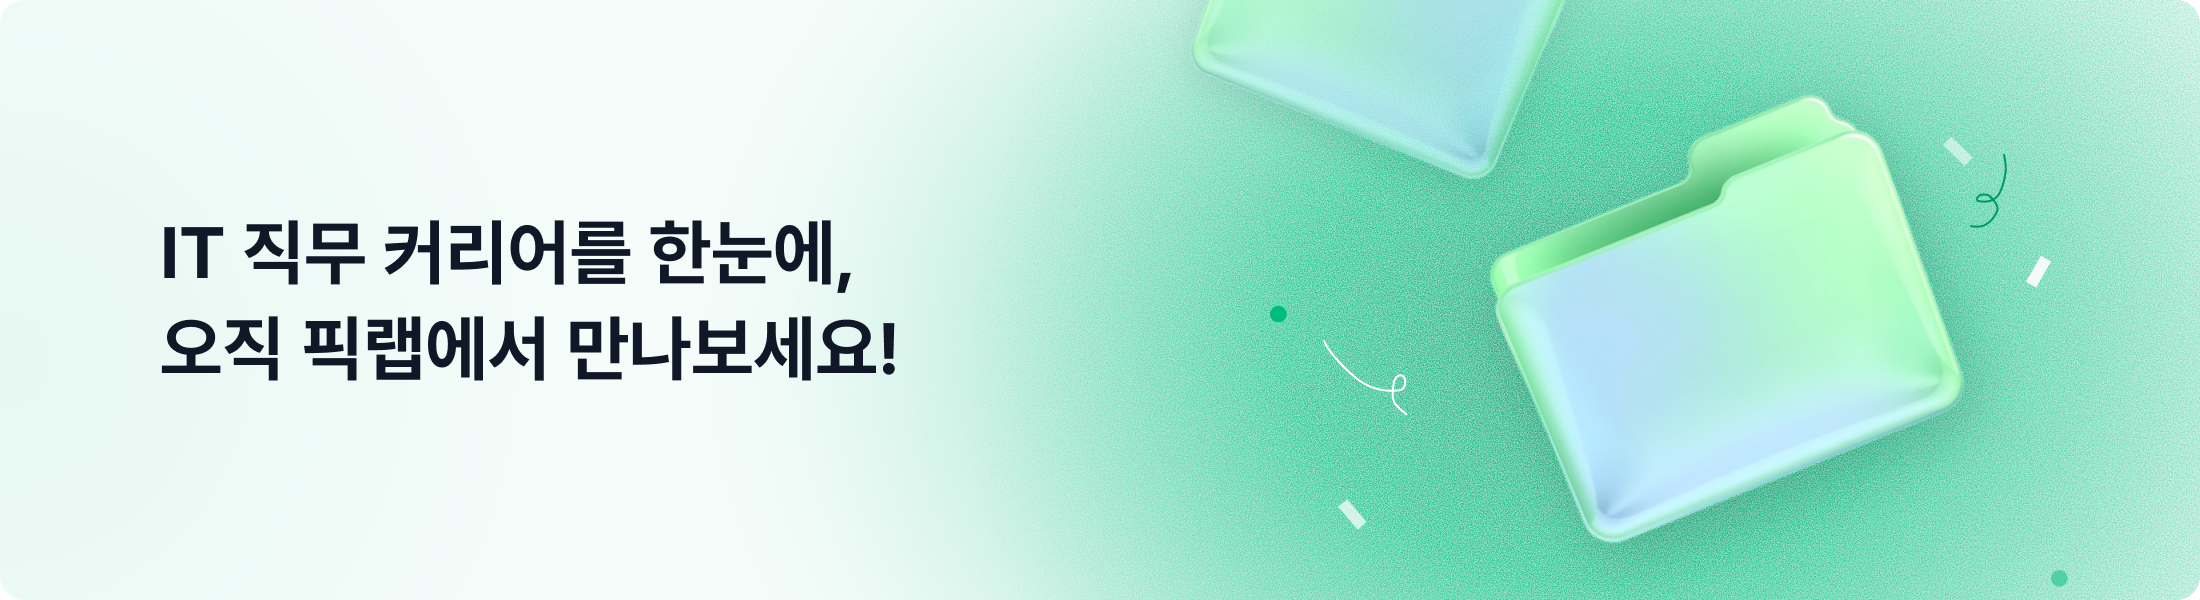
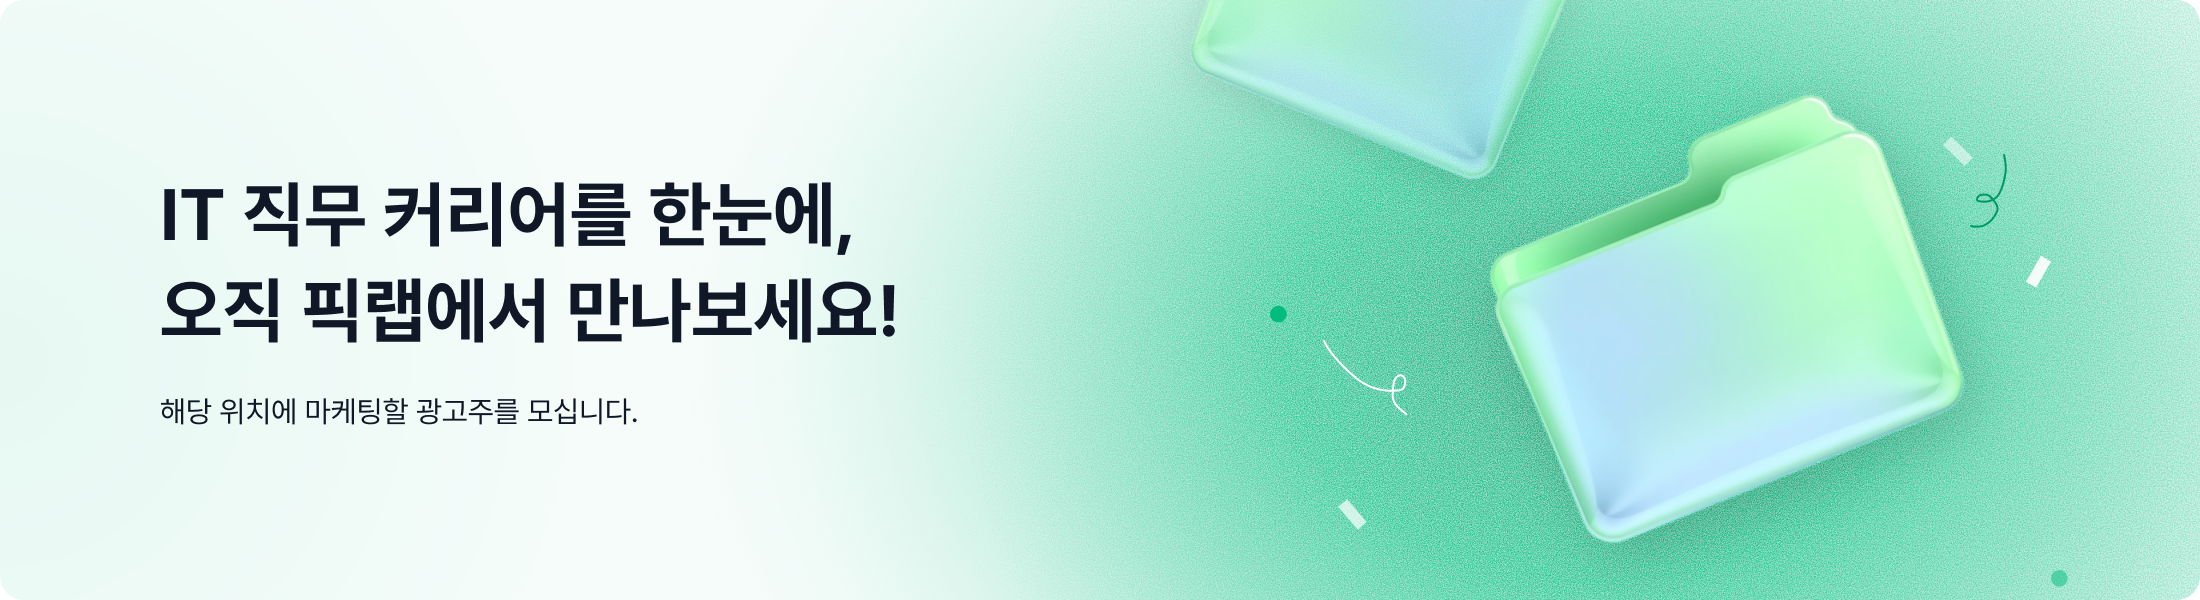
fix: 픽랩 2차 QA 테스트 작업

Changed region(s): [[0.0618, 0.3, 0.4327, 0.63], [0.0618, 0.66, 0.2782, 0.72]]

diff --git a/src/components/common/Select/Select.tsx b/src/components/common/Select/Select.tsx
@@ -27,7 +27,7 @@ export interface SelectProps {
   onChange: (value?: string | string[]) => void;
   type?: OptionGroupProps['type'];
   disabled?: boolean;
-  width?: 'default' | 'large' | 'small' | 'xsmall' | 'full';
+  width?: 'default' | 'large' | 'medium' | 'small' | 'xsmall' | 'full';
   size?: 'default' | 'small' | 'xsmall';
   icon?: IconType;
   functionOptionType?: Exclude<FunctionOptionProps['type'], 'selfplus'>;
@@ -40,6 +40,7 @@ export interface SelectProps {
 export const widthClassMap = {
   default: 'w-60',
   large: 'w-[420px]',
+  medium: 'w-[160px] py-space-9',
   small: 'w-[140px] py-space-9',
   xsmall: 'w-[98px] py-space-7',
   full: 'w-full',

diff --git a/src/app/(home)/_components/pc/NewActivityList.tsx b/src/app/(home)/_components/pc/NewActivityList.tsx
@@ -177,7 +177,7 @@ export default function NewActivityList({
             <div className="flex gap-2">
               <Select
                 size="small"
-                width="small"
+                width="medium"
                 type="checkbox"
                 functionOptionType="reset"
                 portalDropdown
@@ -201,7 +201,7 @@ export default function NewActivityList({
               />
               <Select
                 size="small"
-                width="small"
+                width="medium"
                 type="checkbox"
                 functionOptionType="reset"
                 portalDropdown

diff --git a/src/app/(home)/_components/pc/ActivityList.tsx b/src/app/(home)/_components/pc/ActivityList.tsx
@@ -206,7 +206,7 @@ const ChevronIconButton = ({ direction, onClick }: { direction: 'left' | 'right'
   return (
     <button
       onClick={onClick}
-      className="w-8 h-8 rounded-[4px] border-gray-20 border flex items-center justify-center hover:bg-gray-50 transition-colors"
+      className="w-8 h-8 rounded-[4px] border-gray-20 border flex items-center justify-center hover:bg-gray-5 transition-colors"
     >
       {direction === 'left' ? (
         <ChevronLeft color="#101828" height={13.5} />

diff --git a/src/components/common/Footer/Footer.tsx b/src/components/common/Footer/Footer.tsx
@@ -23,7 +23,7 @@ const Footer = ({ className }: { className: string }) => {
         <div className="flex gap-[70px]">
           <Link href="/" aria-label="홈으로 가기">
             <Image
-              src="/imgs/footer_Logo.png"
+              src="/imgs/footer_logo.png"
               width={90}
               height={40}
               alt="Picklab 로고"

diff --git a/src/app/(home)/_components/Banner.tsx b/src/app/(home)/_components/Banner.tsx
@@ -1,4 +1,4 @@
-import Image from 'next/image';
+import Image from "next/image";
 
 export default function Banner() {
   return (
